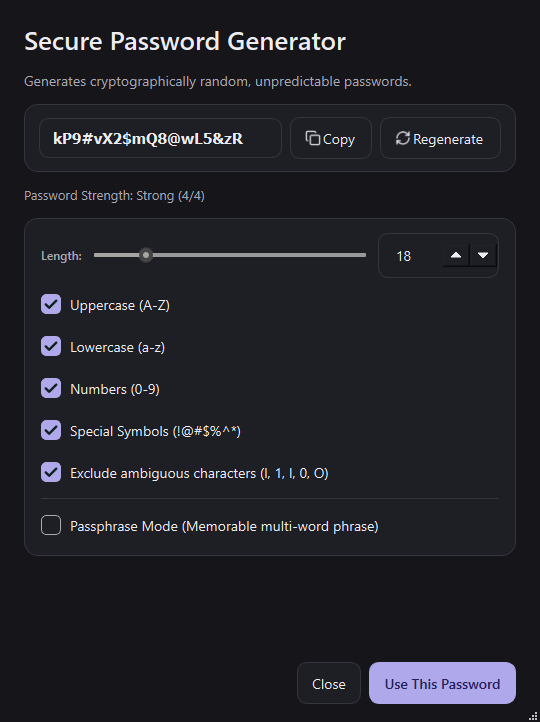
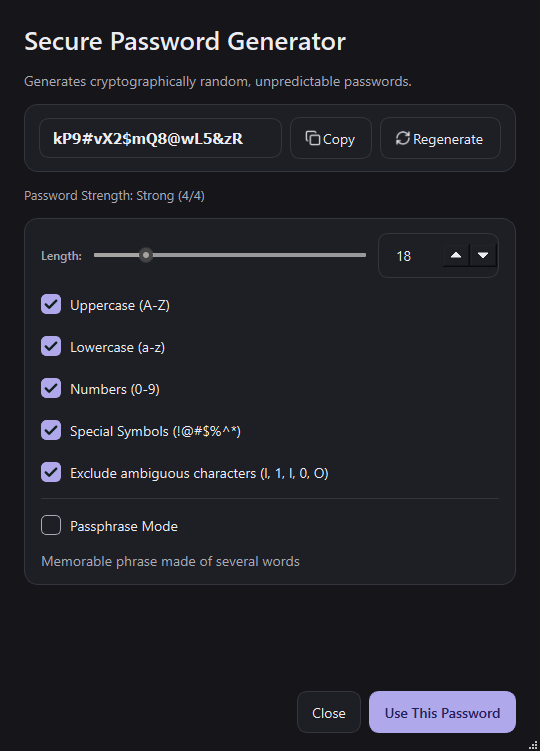
fix(ui): fix overflow in unlock page, settings, generator, export dialog; add layout regression tests
- Unlock page: scrollable right column, wider form card, stacked idle-lock row
- Settings 'This vault' tab: split button row to avoid horizontal scroll
- Generator/Export dialogs: split long checkbox/radio text into title + hint
- Workspace empty-state action cards: reserve height for wrapped text
- Password sidebar: wider so buttons are not clipped
- Add test_enclave_layout.py scanning windows in TR/EN at several sizes
- Refresh README screenshots

diff --git a/test_enclave_layout.py b/test_enclave_layout.py
@@ -1,0 +1,202 @@
+"""
+Enclave - Pencere yerleşim (taşma / kırpılma / hizasızlık) testleri.
+Her pencere Türkçe ve İngilizce, farklı boyutlarda açılır; sığmayan etiket ve butonlar,
+ana pencereden taşan öğeler ve yatay kaydırma gerektiren içerik raporlanır.
+Çalıştırma: python -m unittest test_enclave_layout -v
+"""
+
+import atexit
+import os
+import shutil
+import sys
+import tempfile
+import unittest
+
+os.environ.setdefault("QT_QPA_PLATFORM", "offscreen")
+_CONFIG_HOME = tempfile.mkdtemp(prefix="vault_cfg_")
+atexit.register(shutil.rmtree, _CONFIG_HOME, ignore_errors=True)
+os.environ["APPDATA"] = _CONFIG_HOME
+os.environ["XDG_CONFIG_HOME"] = _CONFIG_HOME
+
+from PyQt6.QtWidgets import (
+    QAbstractScrollArea, QApplication, QCheckBox, QLabel, QPushButton, QScrollArea, QToolButton, QWidget,
+)
+
+import enclave_app.i18n as i18n
+from enclave_core import CustomVaultEngine as E
+from enclave_app import designs
+from enclave_app.common import ElidedLabel, Theme
+from enclave_app.dialogs import (
+    ChangePasswordDialog, CreateVaultDialog, RecoveryKeyDialog, SettingsDialog, TwoFactorDialog,
+)
+from enclave_app.extras import ShaDialog, StripCarrierDialog, WrapCarrierDialog
+from enclave_app.pwd_dialogs import (
+    EntryEditorDialog, HealthAuditDialog, ImportExportDialog, PasswordGeneratorDialog,
+)
+from enclave_app.pwd_engine import PasswordEntry, PasswordStore
+from enclave_app.session import VaultSession
+from enclave_app.window import VaultWindow, load_bundled_fonts
+from enclave_app.workspace import Workspace
+
+app = QApplication.instance() or QApplication([])
+load_bundled_fonts()
+
+TOLERANCE = 2
+
+
+def _scroll_ancestor(widget: QWidget):
+    parent = widget.parentWidget()
+    while parent is not None:
+        if isinstance(parent, QAbstractScrollArea):
+            return parent
+        parent = parent.parentWidget()
+    return None
+
+
+def _text(widget: QWidget) -> str:
+    for cls in (QLabel, QPushButton, QToolButton, QCheckBox):
+        if isinstance(widget, cls):
+            return cls.text(widget)
+    return ""
+
+
+def find_problems(root: QWidget) -> list:
+    """Kök pencere içindeki yerleşim sorunlarını metin olarak döndürür."""
+    problems = []
+    app.processEvents()
+    for widget in root.findChildren(QWidget):
+        if not widget.isVisibleTo(root) or widget.width() <= 0:
+            continue
+        name = f"{type(widget).__name__}({widget.objectName() or _text(widget)[:28]})"
+
+        # Etiket: tek satırlık ve kısaltılmayan metin kutudan taşıyor mu?
+        if isinstance(widget, QLabel) and not isinstance(widget, ElidedLabel):
+            text = QLabel.text(widget)
+            if text and not widget.wordWrap() and widget.pixmap().isNull() and "<" not in text:
+                need = widget.fontMetrics().horizontalAdvance(text)
+                if need > widget.width() - widget.contentsMargins().left() - widget.contentsMargins().right() + 6 \
+                        and widget.sizeHint().width() > widget.width() + TOLERANCE:
+                    problems.append(f"etiket kırpılıyor: {name} gerek={need} var={widget.width()} '{text[:40]}'")
+            if widget.wordWrap() and text and widget.height() < widget.fontMetrics().height():
+                problems.append(f"sarmalı etiket ezilmiş: {name} yükseklik={widget.height()}")
+
+        # Buton: metin + ikon sığıyor mu?
+        elif isinstance(widget, (QPushButton, QToolButton)) and _text(widget):
+            hint = widget.sizeHint().width()
+            if hint > widget.width() + TOLERANCE and widget.minimumSizeHint().width() > widget.width() + TOLERANCE:
+                problems.append(f"buton metni kırpılıyor: {name} gerek={hint} var={widget.width()}")
+        elif isinstance(widget, QCheckBox) and _text(widget):
+            if widget.sizeHint().width() > widget.width() + TOLERANCE:
+                problems.append(f"onay kutusu metni kırpılıyor: {name} gerek={widget.sizeHint().width()} var={widget.width()}")
+
+        # Kaydırma alanı dışında kalan öğe ana pencerenin dışına taşıyor mu?
+        scroller = _scroll_ancestor(widget)
+        if scroller is None:
+            top_left = widget.mapTo(root, widget.rect().topLeft())
+            if top_left.x() + widget.width() > root.width() + TOLERANCE or top_left.x() < -TOLERANCE:
+                problems.append(f"pencereden taşıyor: {name} x={top_left.x()} w={widget.width()} pencere={root.width()}")
+
+    # Yatay kaydırma çubuğu belirmesi, içerik genişliğinin sığmadığını gösterir
+    for area in root.findChildren(QAbstractScrollArea):
+        if area.isVisibleTo(root) and area.horizontalScrollBar().isVisibleTo(root) \
+                and area.horizontalScrollBar().maximum() > 0 and not isinstance(area, QScrollArea):
+            problems.append(f"yatay kaydırma çıkıyor: {type(area).__name__}({area.objectName()})")
+        if isinstance(area, QScrollArea) and area.isVisibleTo(root) and area.widget() is not None \
+                and area.horizontalScrollBar().maximum() > 0:
+            problems.append(f"yatay kaydırma çıkıyor: QScrollArea({area.objectName()}) taşma={area.horizontalScrollBar().maximum()}")
+    return problems
+
+
+class LayoutTests(unittest.TestCase):
+    @classmethod
+    def setUpClass(cls):
+        cls.tmp = tempfile.mkdtemp(prefix="pvault_layout_")
+        cls.vault_path = os.path.join(cls.tmp, "layout.pvault")
+        E.create_vault(cls.vault_path, "LayoutPassword123!")
+        cls.session = VaultSession(cls.vault_path)
+        cls.session.unlock("LayoutPassword123!")
+        cls.store = PasswordStore(cls.session)
+        cls.store.add(PasswordEntry(
+            title="Çok uzun başlıklı bir kayıt adı: Üretim Bulut Konsolu Yönetici Hesabı",
+            type="login", username="uzun.kullanici.adi.ornegi@cok-uzun-bir-alan-adi.example.com",
+            password="s3Cur3#P@ssw0rd!2026-XyZ", url="https://example.com/a/very/long/path/to/console/login",
+            totp_secret="JBSWY3DPEHPK3PXP", favorite=True, tags=["Bulut", "Üretim", "Altyapı"],
+            notes="Uzun not satırı " * 12,
+        ))
+        cls.store.add(PasswordEntry(title="Kısa", type="note", notes="x"))
+        cls.theme = Theme(designs.get_design("purple", "card"), dark=True)
+        app.setStyleSheet(designs.build_stylesheet(cls.theme.design, cls.theme.dark))
+
+    @classmethod
+    def tearDownClass(cls):
+        cls.session.close()
+        shutil.rmtree(cls.tmp, ignore_errors=True)
+        i18n.set_language("tr")
+
+    def _check(self, factory, label, sizes=None):
+        failures = []
+        for lang in ("tr", "en"):
+            i18n.set_language(lang)
+            widget = factory()
+            try:
+                for size in (sizes or [None]):
+                    if size:
+                        widget.resize(*size)
+                    widget.show()
+                    app.processEvents()
+                    for problem in find_problems(widget):
+                        failures.append(f"[{lang} {size or widget.size().width()}] {problem}")
+            finally:
+                widget.close()
+                widget.deleteLater()
+        self.assertEqual(failures, [], f"{label} yerleşim sorunları:\n" + "\n".join(failures))
+
+    # ---- Diyaloglar -------------------------------------------------------------------------------------------
+    def test_settings_dialog(self):
+        self._check(lambda: SettingsDialog(self.theme, self.session), "Ayarlar")
+
+    def test_create_vault_dialog(self):
+        self._check(lambda: CreateVaultDialog(self.theme), "Kasa oluştur")
+
+    def test_change_password_dialog(self):
+        self._check(lambda: ChangePasswordDialog(self.session, self.theme), "Parola değiştir")
+
+    def test_two_factor_dialog(self):
+        self._check(lambda: TwoFactorDialog(self.session, self.theme), "İki adımlı doğrulama")
+
+    def test_recovery_key_dialog(self):
+        self._check(lambda: RecoveryKeyDialog("ABCD-EFGH-IJKL-MNOP-QRST-UVWX", self.vault_path, self.theme), "Kurtarma anahtarı")
+
+    def test_sha_dialog(self):
+        self._check(lambda: ShaDialog(self.theme, False), "SHA")
+        self._check(lambda: ShaDialog(self.theme, True), "SHA karşılaştır")
+
+    def test_carrier_dialogs(self):
+        self._check(lambda: WrapCarrierDialog(self.theme), "Kılıf giydir")
+        self._check(lambda: StripCarrierDialog(self.theme), "Kılıf çıkar")
+
+    def test_password_dialogs(self):
+        self._check(lambda: PasswordGeneratorDialog(self.theme), "Parola üreteci")
+        self._check(lambda: HealthAuditDialog(self.theme, self.store), "Güvenlik raporu")
+        self._check(lambda: ImportExportDialog(self.theme, self.store), "İçe/Dışa aktar")
+        self._check(lambda: EntryEditorDialog(self.theme, self.store), "Kayıt düzenleyici")
+        self._check(lambda: EntryEditorDialog(self.theme, self.store, entry=self.store.all()[0]), "Kayıt düzenleyici (dolu)")
+
+    # ---- Ana pencereler ---------------------------------------------------------------------------------------
+    def test_unlock_window(self):
+        self._check(lambda: VaultWindow(""), "Kilit ekranı", sizes=[(560, 520), (800, 600), (1160, 740)])
+
+    def test_workspace_files(self):
+        self._check(lambda: Workspace(self.session, self.theme), "Çalışma alanı", sizes=[(700, 520), (900, 600), (1160, 740)])
+
+    def test_workspace_passwords(self):
+        def factory():
+            ws = Workspace(self.session, self.theme)
+            ws.set_mode("passwords")
+            ws.pwd_view.refresh()
+            return ws
+        self._check(factory, "Şifre yöneticisi", sizes=[(900, 600), (1160, 740)])
+
+
+if __name__ == "__main__":
+    unittest.main()

diff --git a/enclave_app/unlock_page.py b/enclave_app/unlock_page.py
@@ -7,7 +7,7 @@ from typing import Callable, List, Optional
 from PyQt6.QtCore import QTimer, Qt, pyqtSignal
 from PyQt6.QtWidgets import (
     QApplication, QCheckBox, QComboBox, QInputDialog, QFileDialog, QFrame, QGridLayout, QHBoxLayout, QLabel, QLineEdit, QMenu,
-    QPushButton, QStackedWidget, QVBoxLayout, QWidget,
+    QPushButton, QScrollArea, QStackedWidget, QVBoxLayout, QWidget,
 )
 
 from config import load_config, save_config
@@ -162,9 +162,8 @@ class UnlockPage(QWidget):
         sec_l.setContentsMargins(14, 12, 14, 12)
         sec_l.setSpacing(8)
         sec_l.addWidget(label(tr("Güvenlik Politikası"), "Eyebrow"))
+        sec_l.addWidget(label(tr("Hareketsizlikte kilitle"), "Muted"))
         idle_row = QHBoxLayout()
-        idle_row.setSpacing(10)
-        idle_row.addWidget(label(tr("Hareketsizlikte kilitle"), "Muted", wrap=False))
         idle_row.addWidget(self.idle)
         idle_row.addStretch(1)
         sec_l.addLayout(idle_row)
@@ -237,11 +236,12 @@ class UnlockPage(QWidget):
 
         self.form_card = QFrame()
         self.form_card.setObjectName("Card")
+        self.form_card.setMinimumWidth(372)
         card_layout = QVBoxLayout(self.form_card)
         card_layout.setContentsMargins(26, 24, 26, 22)
         card_layout.addWidget(self.form_stack)
         right = QVBoxLayout()
-        right.setContentsMargins(36, 16, 20, 28)
+        right.setContentsMargins(28, 16, 16, 28)
         top = QHBoxLayout()
         top.setSpacing(4)
         top.addStretch(1)
@@ -250,16 +250,26 @@ class UnlockPage(QWidget):
         right.addLayout(top)
         right.addStretch(1)
         form_row = QHBoxLayout()
-        form_row.setContentsMargins(0, 0, 16, 0)
+        form_row.setContentsMargins(0, 0, 0, 0)
         form_row.addWidget(self.form_card)
         right.addLayout(form_row)
         right.addStretch(1)
+
+        cover.setMinimumWidth(120)
+        right_body = QWidget()
+        right_body.setLayout(right)
+        right_scroll = QScrollArea()
+        right_scroll.setWidgetResizable(True)
+        right_scroll.setFrameShape(QFrame.Shape.NoFrame)
+        right_scroll.setHorizontalScrollBarPolicy(Qt.ScrollBarPolicy.ScrollBarAlwaysOff)
+        right_scroll.setWidget(right_body)
+        right_scroll.setMinimumWidth(372 + 44 + 14)
 
         row = QHBoxLayout(self)
         row.setContentsMargins(0, 0, 0, 0)
         row.setSpacing(0)
         row.addWidget(cover, 5)
-        row.addLayout(right, 6)
+        row.addWidget(right_scroll, 6)
 
     def _arrange_poster(self) -> None:
         outer = QVBoxLayout(self)

diff --git a/enclave_app/en.py b/enclave_app/en.py
@@ -573,7 +573,8 @@ EN = {
     "CSV Olarak Kaydet": "Save as CSV",
     "Desteklenen Dosyalar (*.csv *.json *.pvault-pwd);;Tüm Dosyalar (*)": "Supported Files (*.csv *.json *.pvault-pwd);;All Files (*)",
     "Değer": "Value",
-    "Düz Metin CSV (.csv) - Dikkat: Parolalar açık metin olarak yazılır!": "Plain Text CSV (.csv) - Warning: Passwords will be saved in clear text!",
+    "Düz Metin CSV (.csv)": "Plain Text CSV (.csv)",
+    "Dikkat: Parolalar açık metin olarak yazılır!": "Warning: Passwords will be saved in clear text!",
     "Düzelt": "Fix",
     "Dışa Aktar (Export)": "Export",
     "Dışa Aktar...": "Export...",
@@ -615,7 +616,8 @@ EN = {
     "Mükemmel! Hiçbir parolanız başka bir hesapla ortak değil.": "Excellent! None of your passwords are shared across accounts.",
     "Parola Güvenliği: {} ({}/4)": "Password Strength: {} ({}/4)",
     "Parola hatalı veya dosya bozulmuş.": "Incorrect password or corrupted file.",
-    "Parola Öbeği Modu (Kelimelerden oluşan akılda kalıcı parola)": "Passphrase Mode (Memorable multi-word phrase)",
+    "Parola Öbeği Modu": "Passphrase Mode",
+    "Kelimelerden oluşan akılda kalıcı parola": "Memorable phrase made of several words",
     "Parolaları İçe / Dışa Aktar": "Import / Export Passwords",
     "Parolayı Kopyala": "Copy Password",
     "Rakamlar (0-9)": "Numbers (0-9)",
@@ -643,7 +645,8 @@ EN = {
     "Şifre veritabanı çözülemedi veya anahtar hatalı.": "Could not decrypt password database or incorrect key.",
     "Şifreleri İçe Aktar": "Import Passwords",
     "Şifrelerinizi başka bir cihaza taşımak veya yedeklemek için dışa aktarabilirsiniz.": "You can export your passwords to back them up or transfer to another device.",
-    "Şifreli Yedek (.pvault-pwd) - Güvenli, parola korumalı": "Encrypted Backup (.pvault-pwd) - Secure, password protected",
+    "Şifreli Yedek (.pvault-pwd)": "Encrypted Backup (.pvault-pwd)",
+    "Güvenli, parola korumalı": "Secure, password protected",
     "Şifreli Yedek Olarak Kaydet": "Save as Encrypted Backup",
     "Şifresiz Kaydet": "Save Unencrypted",
     "Parolalarınız şifresiz, açık CSV dosyası olarak kaydedilecek. Bu dosya ele geçirilirse tüm hesaplarınız tehlikeye girer.\n\nDevam etmek istiyor musunuz?":

diff --git a/enclave_app/pwd_dialogs.py b/enclave_app/pwd_dialogs.py
@@ -423,9 +423,10 @@ class PasswordGeneratorDialog(DialogBase):
 
         layout.addWidget(horizontal_rule())
 
-        self.passphrase_chk = QCheckBox(tr("Parola Öbeği Modu (Kelimelerden oluşan akılda kalıcı parola)"))
+        self.passphrase_chk = QCheckBox(tr("Parola Öbeği Modu"))
         self.passphrase_chk.toggled.connect(self._on_passphrase_toggled)
         layout.addWidget(self.passphrase_chk)
+        layout.addWidget(label(tr("Kelimelerden oluşan akılda kalıcı parola"), "Muted"))
 
         self.body.addWidget(box)
         self.body.addStretch(1)
@@ -567,11 +568,13 @@ class ImportExportDialog(DialogBase):
         b_l = QVBoxLayout(box)
         b_l.setSpacing(10)
 
-        self.exp_encrypted = QRadioButton(tr("Şifreli Yedek (.pvault-pwd) - Güvenli, parola korumalı"))
+        self.exp_encrypted = QRadioButton(tr("Şifreli Yedek (.pvault-pwd)"))
         self.exp_encrypted.setChecked(True)
-        self.exp_csv = QRadioButton(tr("Düz Metin CSV (.csv) - Dikkat: Parolalar açık metin olarak yazılır!"))
+        self.exp_csv = QRadioButton(tr("Düz Metin CSV (.csv)"))
         b_l.addWidget(self.exp_encrypted)
+        b_l.addWidget(label(tr("Güvenli, parola korumalı"), "Muted"))
         b_l.addWidget(self.exp_csv)
+        b_l.addWidget(label(tr("Dikkat: Parolalar açık metin olarak yazılır!"), "Muted"))
 
         b_l.addWidget(label(tr("Yedek Parolası (Şifreli yedek için)"), "Eyebrow"))
         self.backup_pass = PasswordField(self.theme, tr("Yedek parolasını belirleyin"))

diff --git a/enclave_app/dialogs.py b/enclave_app/dialogs.py
@@ -1029,12 +1029,16 @@ class SettingsDialog(DialogBase):
         row.addWidget(button(tr("Parolayı değiştir"), on_click=self._change_password))
         self.compact_button = button(tr("Kasayı sıkıştır"), on_click=self._compact)
         row.addWidget(self.compact_button)
-        row.addWidget(button(tr("Kurtarma anahtarı"), on_click=self._show_recovery_key))
-        self.key_file_button = button("", on_click=self._toggle_key_file)
-        self._refresh_key_file()
-        row.addWidget(self.key_file_button)
         row.addStretch(1)
         layout.addLayout(row)
+        row2 = QHBoxLayout()
+        row2.setSpacing(8)
+        row2.addWidget(button(tr("Kurtarma anahtarı"), on_click=self._show_recovery_key))
+        self.key_file_button = button("", on_click=self._toggle_key_file)
+        self._refresh_key_file()
+        row2.addWidget(self.key_file_button)
+        row2.addStretch(1)
+        layout.addLayout(row2)
         morph_row = QHBoxLayout()
         morph_row.setSpacing(8)
         if self.session.is_stego:

diff --git a/enclave_app/pwd_view.py b/enclave_app/pwd_view.py
@@ -574,7 +574,7 @@ class PasswordView(QWidget):
         self.splitter.setStretchFactor(0, 0)
         self.splitter.setStretchFactor(1, 1)
         self.splitter.setStretchFactor(2, 2)
-        self.splitter.setSizes([220, 340, 480])
+        self.splitter.setSizes([236, 330, 470])
 
         root.addWidget(self.splitter)
 
@@ -582,7 +582,7 @@ class PasswordView(QWidget):
         p = self.theme.palette
         side = QFrame()
         side.setObjectName("SidebarPane")
-        side.setMinimumWidth(180)
+        side.setMinimumWidth(236)
         side_l = QVBoxLayout(side)
         side_l.setContentsMargins(12, 14, 12, 14)
         side_l.setSpacing(6)

diff --git a/enclave_app/workspace.py b/enclave_app/workspace.py
@@ -701,6 +701,8 @@ class Workspace(QWidget):
             desc.setAttribute(Qt.WidgetAttribute.WA_TransparentForMouseEvents)
             c_inner.addWidget(desc)
 
+            desc.setMinimumHeight(desc.fontMetrics().lineSpacing() * 3)
+            card_btn.setMinimumHeight(c_inner.minimumSize().height())
             card_btn.clicked.connect(callback)
             return card_btn
 
